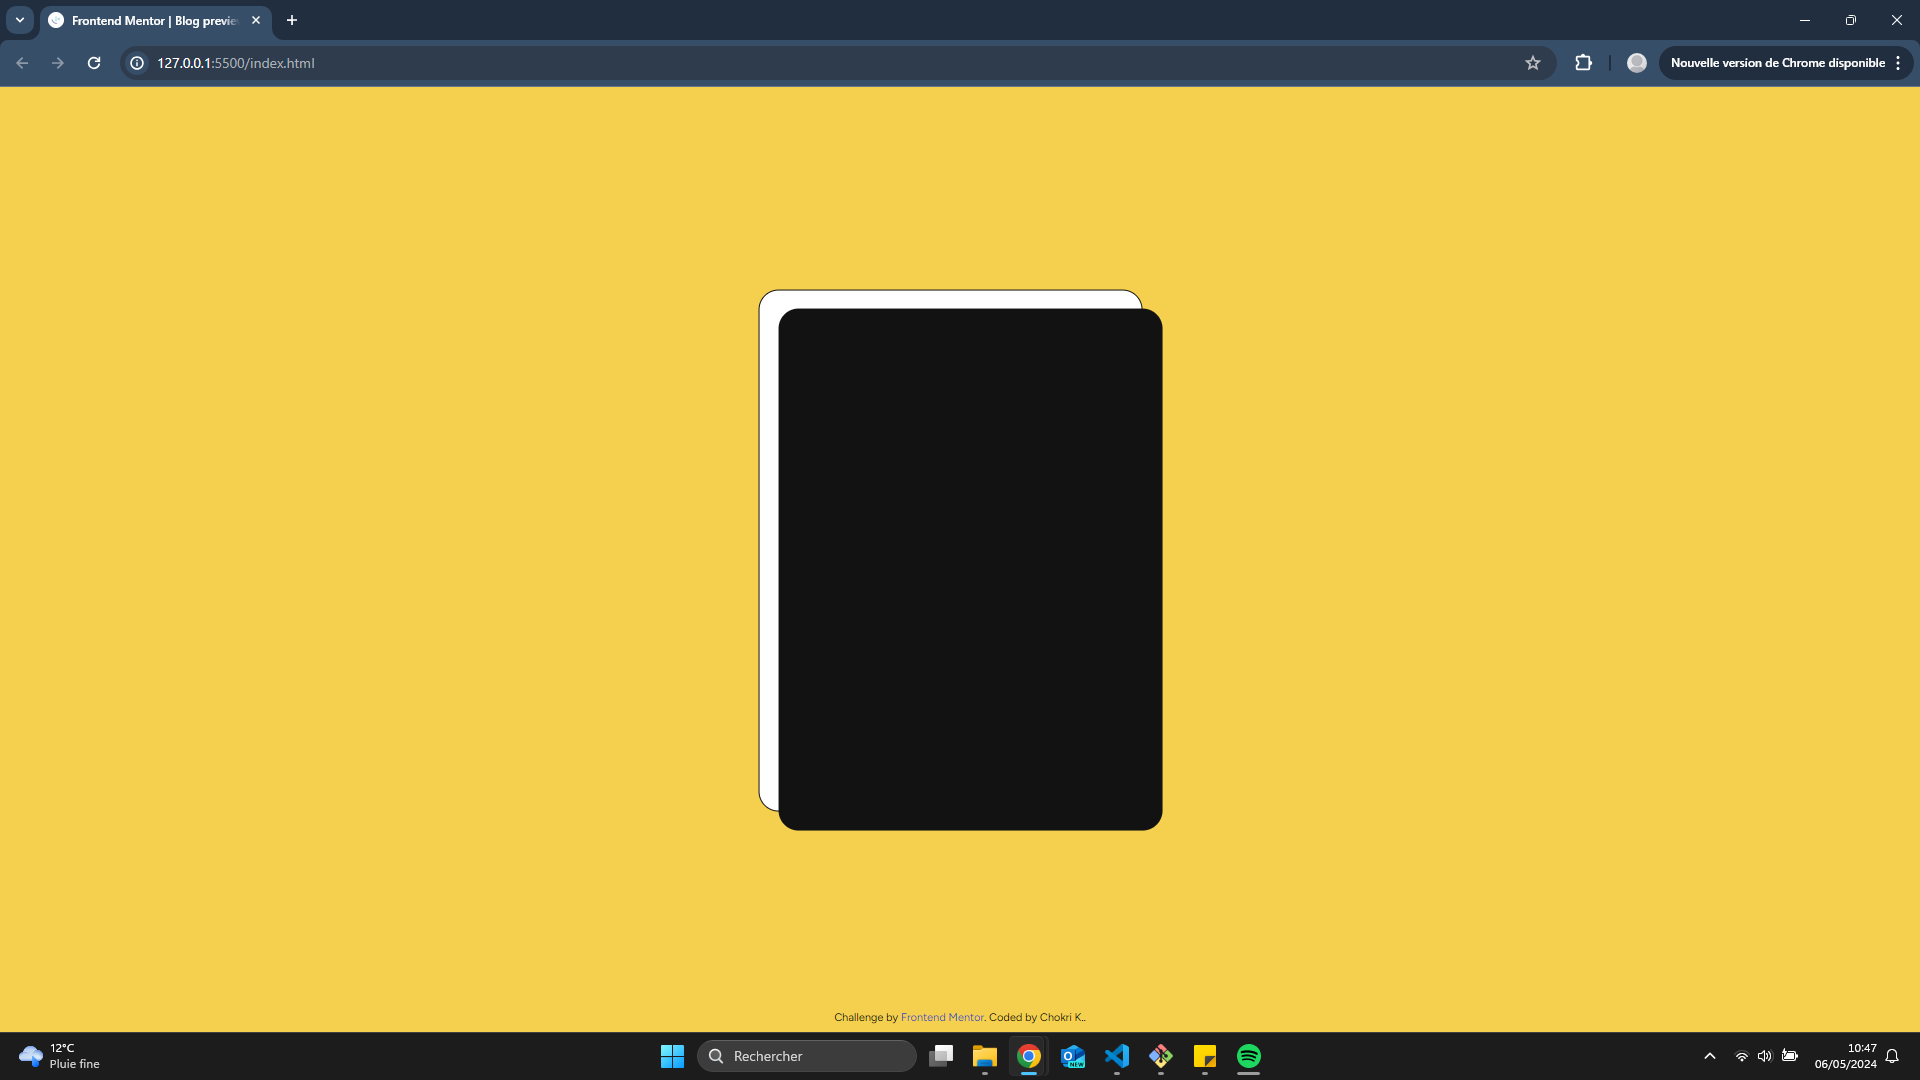
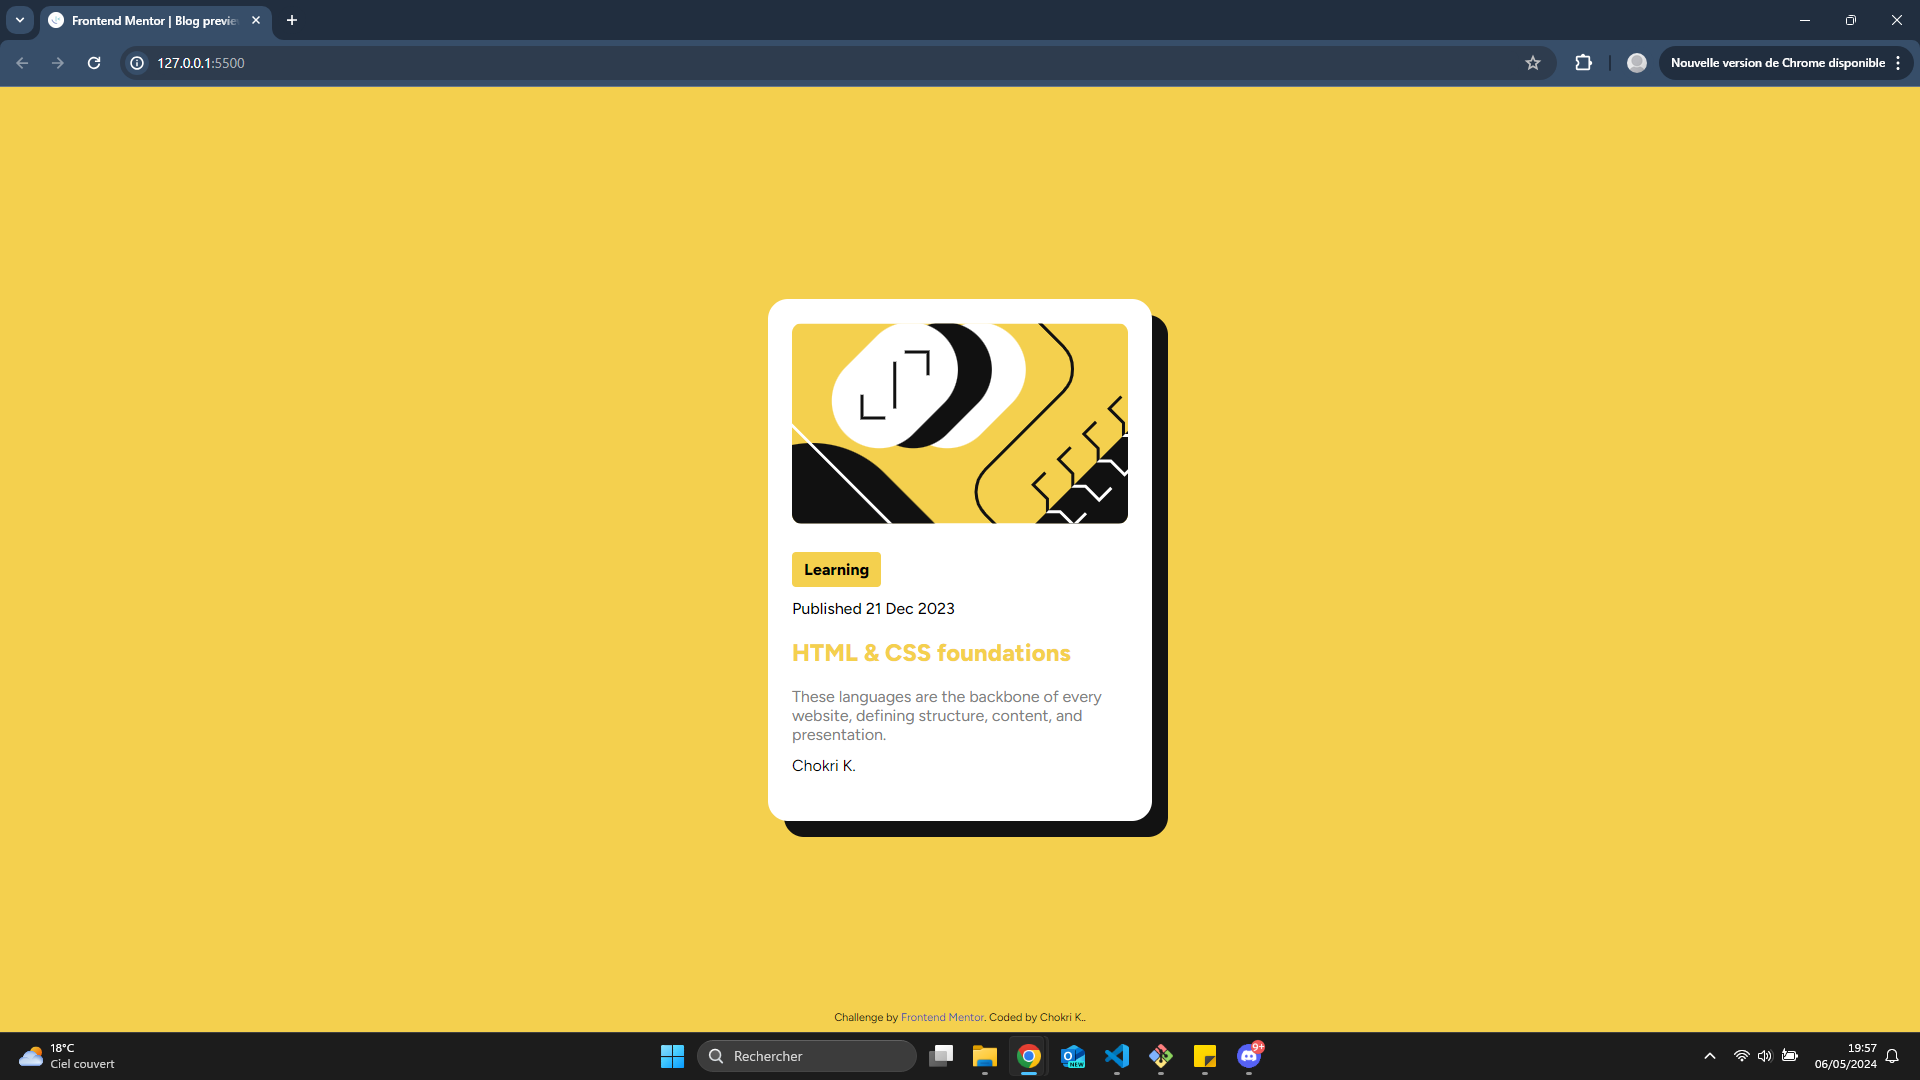
Refresh readme w/ solution

diff --git a/README.md b/README.md
@@ -37,8 +37,7 @@ Users should be able to:
 ### Built with
 
 - CSS pseudo-class (:hover)
-- CSS pseudo-elements (::after)
-- CSS inherit features for position
+- CSS shadow box
 
 ### What I learned
 
@@ -53,6 +52,8 @@ I tried to use the pseudo-elements ::before and ::after in my code :
 I don't understand why the ::after element, when we hovered the card, passes in front of it. I tried to change the z-index value (from negative to positive) but the issue is still present. In the best case, the ::after element is between the card and its content :
 
 ![](./assets/images/screen-issue.png)
+
+**Issue had been resolved** : Changed the pseudo ::after to a box-shadow feature with a transition
 
 ### Continued development
 
